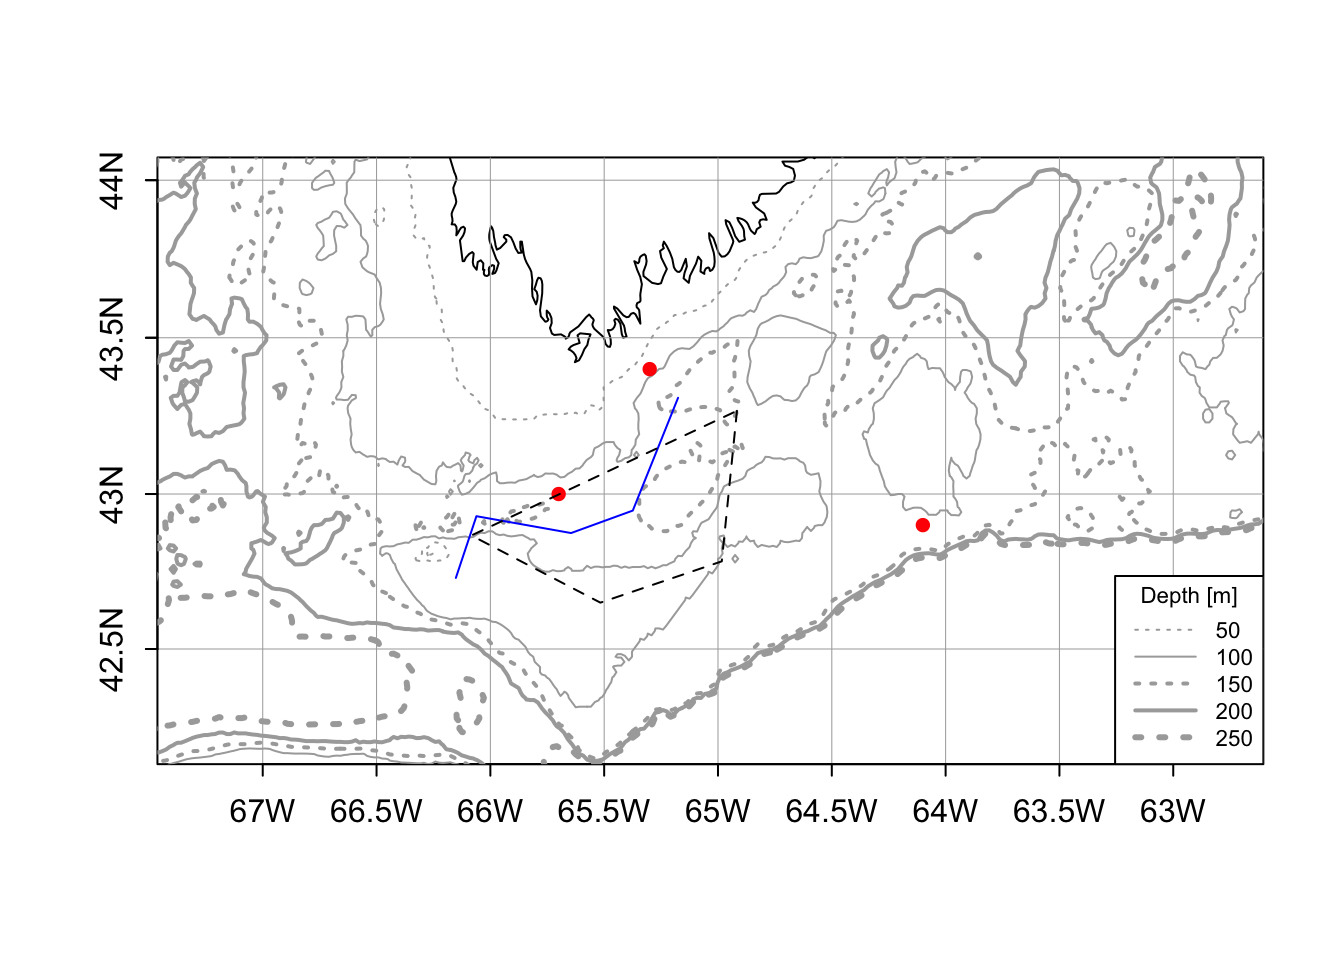
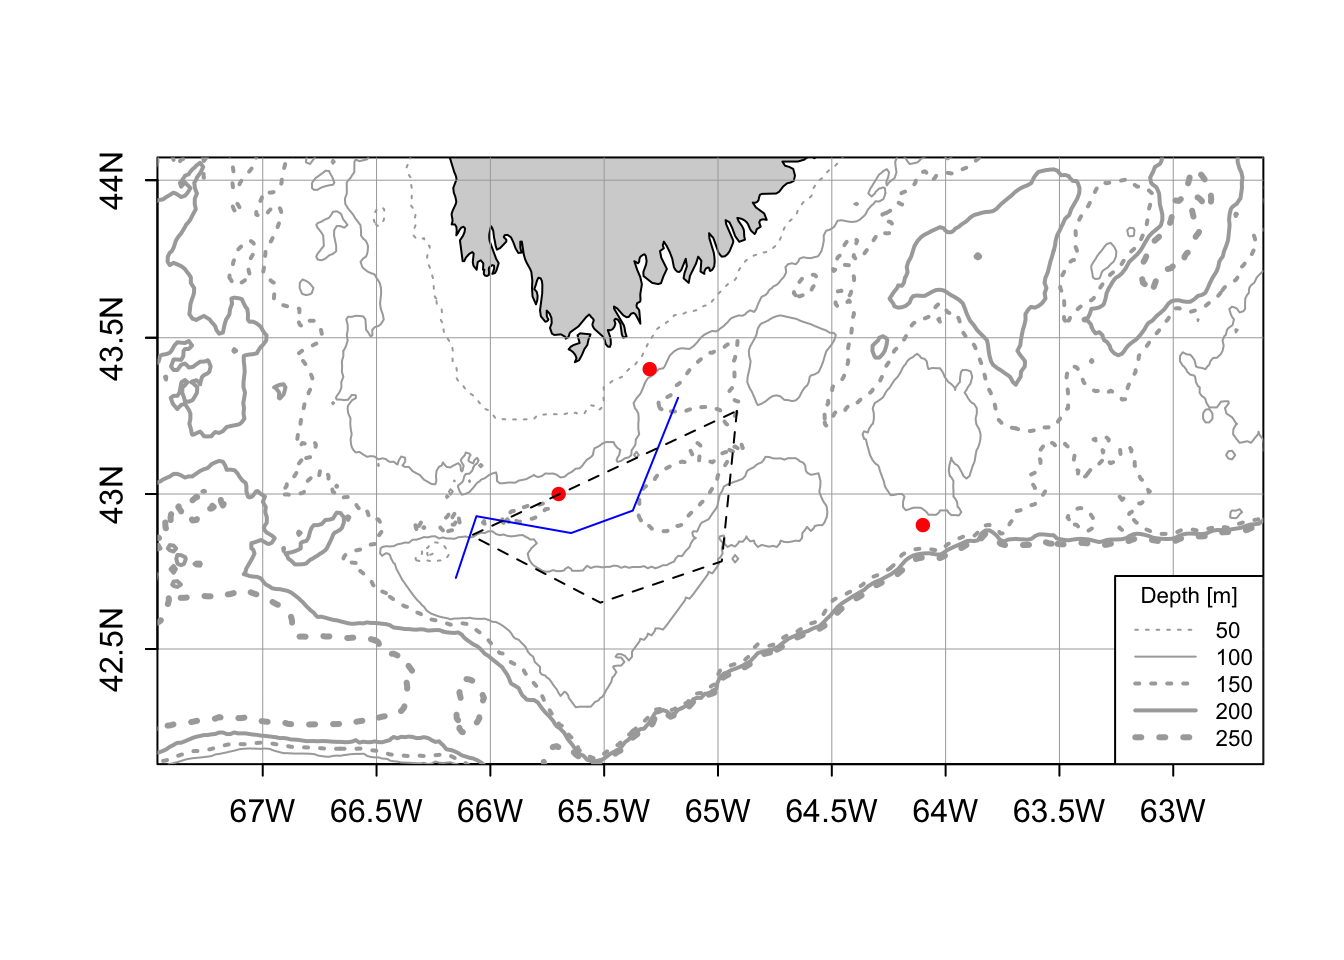
update bathy map post for cleaner code layout

Changed region(s): [[0.3125, 0.1562, 0.5938, 0.375]]

diff --git a/content/post/2018-03-09-bathymetric-maps-in-r.html b/content/post/2018-03-09-bathymetric-maps-in-r.html
@@ -69,10 +69,18 @@ span = 300
 plot(coastlineWorldFine, clon = mlon, clat = mlat, span = span)
 
 # plot bathymetry
-contour(bathyLon,bathyLat,bathyZ,levels = c(-50, -100, -150, -200, -250),lwd = c(1, 1, 2, 2, 3),lty = c(3, 1, 3, 1, 3),drawlabels = F,add = TRUE,col = &#39;darkgray&#39;)
+contour(bathyLon,bathyLat,bathyZ,
+        levels = c(-50, -100, -150, -200, -250),
+        lwd = c(1, 1, 2, 2, 3),
+        lty = c(3, 1, 3, 1, 3),
+        drawlabels = F, add = TRUE, col = &#39;darkgray&#39;)
 
 # add depth legend
-legend(&quot;bottomright&quot;,lwd = c(1, 1, 2, 2, 3),lty = c(3, 1, 3, 1, 3),col = &#39;darkgray&#39;,seg.len = 3,cex = 0.8,title = &quot;Depth [m]&quot;,legend = c(&quot;50&quot;, &quot;100&quot;, &quot;150&quot;, &quot;200&quot;, &quot;250&quot;),bg= &quot;white&quot;)
+legend(&quot;bottomright&quot;, seg.len = 3, cex = 0.8,
+       lwd = c(1, 1, 2, 2, 3),
+       lty = c(3, 1, 3, 1, 3),
+       legend = c(&quot;50&quot;, &quot;100&quot;, &quot;150&quot;, &quot;200&quot;, &quot;250&quot;),
+       col = &#39;darkgray&#39;, title = &quot;Depth [m]&quot;, bg= &quot;white&quot;)
 
 # add map data
 points(pts, pch = 16, col = &#39;red&#39;)
@@ -83,13 +91,21 @@ polygon(ply, lty = 2)</code></pre>
 <pre class="r"><code># --- projected ---#
 
 # plot coastline
-plot(coastlineWorldFine, clon = mlon, clat = mlat, span = 200, projection=&quot;+proj=merc&quot;)
+plot(coastlineWorldFine, clon = mlon, clat = mlat, span = 200, projection=&quot;+proj=merc&quot;, col = &#39;lightgrey&#39;)
 
 # plot bathymetry
-mapContour(bathyLon,bathyLat,bathyZ,levels = c(-50, -100, -150, -200, -250),lwd = c(1, 1, 2, 2, 3),lty = c(3, 1, 3, 1, 3),col = &#39;darkgray&#39;)
+mapContour(bathyLon, bathyLat, bathyZ,
+           levels = c(-50, -100, -150, -200, -250),
+           lwd = c(1, 1, 2, 2, 3),
+           lty = c(3, 1, 3, 1, 3),
+           col = &#39;darkgray&#39;)
 
 # add depth legend
-legend(&quot;bottomright&quot;,lwd = c(1, 1, 2, 2, 3),lty = c(3, 1, 3, 1, 3),col = &#39;darkgray&#39;,seg.len = 3,cex = 0.7,title = &quot;Depth [m]&quot;,legend = c(&quot;50&quot;, &quot;100&quot;, &quot;150&quot;, &quot;200&quot;, &quot;250&quot;),bg= &quot;white&quot;)
+legend(&quot;bottomright&quot;, seg.len = 3, cex = 0.7,
+       lwd = c(1, 1, 2, 2, 3),
+       lty = c(3, 1, 3, 1, 3),
+       legend = c(&quot;50&quot;, &quot;100&quot;, &quot;150&quot;, &quot;200&quot;, &quot;250&quot;),
+       col = &#39;darkgray&#39;, title = &quot;Depth [m]&quot;, bg = &quot;white&quot;)
 
 # add map data
 mapPoints(longitude = pts$lon, latitude = pts$lat, pch = 16, col = &#39;red&#39;)
